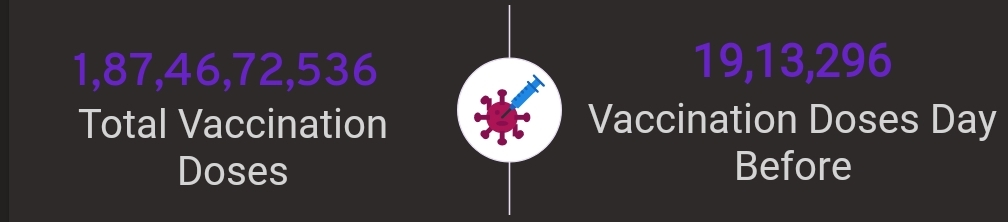
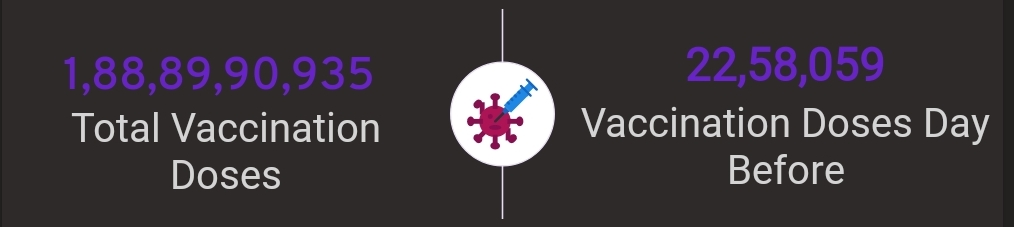
changes 11

diff --git a/index.html b/index.html
@@ -159,13 +159,13 @@
                     data-tooltip="April 27, Wednesday">
                     <h6>27<br>WE</h6>
                   </a></li>
-                <li class="tab"><a href="#ith" class="active black white-text tooltipped" data-position="bottom"
+                <li class="tab"><a href="#ith" class="black white-text tooltipped" data-position="bottom"
                     data-tooltip="April 28, Thursday">
                     <h6>28<br>TH</h6>
                   </a></li>
-                <li class="tab"><a href="#ifr" class="black white-text tooltipped" data-position="bottom"
-                    data-tooltip="April 22, Friday">
-                    <h6>22<br>FR</h6>
+                <li class="tab"><a href="#ifr" class="active black white-text tooltipped" data-position="bottom"
+                    data-tooltip="April 29, Friday">
+                    <h6>29<br>FR</h6>
                   </a></li>
                 <li class="tab"><a href="#isa" class="black white-text tooltipped" data-position="bottom"
                     data-tooltip="April 23, Saturday">
@@ -270,49 +270,49 @@
               <img src="images/ISUii.png" alt="VacDB7" class="responsive-img materialboxed">
             </div>
           </div>
-          <h6>Below Data as on April 29, 18:45 IST</h6>
+          <h6>Below Data as on April 30, 14:55 IST</h6>
           <div class="row">
             <div class="col s12 m6 l4">
               <div class="card-panel grey darken-4 white-text">
                 <h5><b>Vaccine Doses availability</b></h5>
-                <p>As on April 29, Source: PIB India</p>
+                <p>As on April 30, Source: PIB India</p>
                 <b>Supplied</b>: 193.28 Crores <br>
-                <b>Balance</b>: 19.58 Crores
+                <b>Balance</b>: 19.43 Crores
               </div>
             </div>
             <div class="col s12 m6 l4">
               <div class="card-panel grey darken-4 white-text">
                 <h5><b>Vaccine Doses administered</b></h5>
-                <b>Dose 1</b>: 100.29 Crores <br>
-                <b>Dose 2</b>: 85.81 Crores <br>
-                <b>Prec. Dose</b>: 2.66 Crores <br>
-                <b>Total</b>: 188.77 Crores
+                <b>Dose 1</b>: 100.33 Crores <br>
+                <b>Dose 2</b>: 85.94 Crores <br>
+                <b>Prec. Dose</b>: 2.68 Crores <br>
+                <b>Total</b>: 188.96 Crores
               </div>
             </div>
             <div class="col s12 m6 l4">
               <div class="card-panel grey darken-4 white-text">
                 <h5><b>Registered for Vaccine</b></h5>
-                <b>Age 12 to 14</b>: 2.93 Crores <br>
-                <b>Age 15 to 17</b>: 5.93 Crores <br>
+                <b>Age 12 to 14</b>: 2.96 Crores <br>
+                <b>Age 15 to 17</b>: 5.94 Crores <br>
                 <b>Age 18 to 44</b>: 63.02 Crores <br>
-                <b>Age 45+</b>: 36.56 Crores <br>
-                <b>Total</b>: 108.46 Crores
+                <b>Age 45+</b>: 36.57 Crores <br>
+                <b>Total</b>: 108.51 Crores
               </div>
             </div>
             <div class="col s12 m6 l4">
               <div class="card-panel grey darken-4 white-text">
                 <h5><b>Vaccination by Gender</b></h5>
-                <b>Male</b>: 94.68 Crores <br>
-                <b>Female</b>: 90.96 Crores <br>
-                <b>Others</b>: 4.47 Lakhs
+                <b>Male</b>: 94.76 Crores <br>
+                <b>Female</b>: 91.04 Crores <br>
+                <b>Others</b>: 4.48 Lakhs
               </div>
             </div>
             <div class="col s12 m6 l4">
               <div class="card-panel grey darken-4 white-text">
                 <h5><b>Vaccination by Vaccine Name</b></h5>
-                <b>CoviShield</b>: 153.13 Crores <br>
-                <b>Covaxin</b>: 31.57 Crores <br>
-                <b>Corbevax</b>: 3.51 Crores <br>
+                <b>CoviShield</b>: 153.21 Crores <br>
+                <b>Covaxin</b>: 31.60 Crores <br>
+                <b>Corbevax</b>: 3.60 Crores <br>
                 <b>Sputnik V</b>: 12.23 Lakhs <br>
                 <b>Novavax</b>: -
                 <b>Zycov-D</b>: -
@@ -321,11 +321,11 @@
             <div class="col s12 m6 l4">
               <div class="card-panel grey darken-4 white-text">
                 <h5><b>Vaccination by Age</b></h5>
-                <b>Age 12 to 14</b>: 3.51 Crores <br>
-                <b>Age 15 to 17</b>: 10.06 Crores <br>
-                <b>Age 18 to 44</b>: 107.97 Crores <br>
-                <b>Age 45 to 60</b>: 40.66 Crores <br>
-                <b>Age 60+</b>: 26.06 Crores
+                <b>Age 12 to 14</b>: 3.60 Crores <br>
+                <b>Age 15 to 17</b>: 10.08 Crores <br>
+                <b>Age 18 to 44</b>: 108.02 Crores <br>
+                <b>Age 45 to 60</b>: 40.68 Crores <br>
+                <b>Age 60+</b>: 26.07 Crores
               </div>
             </div>
           </div>
@@ -346,13 +346,13 @@
                     data-tooltip="April 27, Wednesday">
                     <h6>27<br>WE</h6>
                   </a></li>
-                <li class="tab"><a href="#sth" class="active black white-text tooltipped" data-position="bottom"
+                <li class="tab"><a href="#sth" class="black white-text tooltipped" data-position="bottom"
                     data-tooltip="April 28, Thursday">
                     <h6>28<br>TH</h6>
                   </a></li>
-                <li class="tab"><a href="#sfr" class="black white-text tooltipped" data-position="bottom"
-                    data-tooltip="April 22, Friday">
-                    <h6>22<br>FR</h6>
+                <li class="tab"><a href="#sfr" class="active black white-text tooltipped" data-position="bottom"
+                    data-tooltip="April 29, Friday">
+                    <h6>29<br>FR</h6>
                   </a></li>
                 <li class="tab"><a href="#ssa" class="black white-text tooltipped" data-position="bottom"
                     data-tooltip="April 23, Saturday">
@@ -865,7 +865,7 @@
         <div class="col s12" id="mum">
           <a href="thavac.html" target="_blank" class="oui-button blue darken-1 white-text">VACCINE SLOT
             TRACKERS</a>
-          <h6 class="white-text">As on April 28</h6>
+          <h6 class="white-text">As on April 29</h6>
           <div class="row">
             <div class="col s12 m6 l3">
               <div class="card-panel grey darken-4 white-text">
@@ -890,7 +890,7 @@
                         <b>Active:</b> 587 <br>
                         <b>Recovered:</b> 10,38,657 <br>
                         <b>Deceased:</b> 19,562 <br>
-                        <b>Vaccinated:</b>2,08,66,369 <br>
+                        <b>Vaccinated:</b>2,08,77,758 <br>
                         <b>Tested:</b> 1,68,85,446
                       </td>
                     </tr>
@@ -905,7 +905,7 @@
                   <caption>Week Trend of New Cases (<i class="fas fa-arrow-circle-up"></i>)</caption>
                   <tbody>
                     <tr>
-                      <td>Apr 29 <br><i class="fas fa-arrow-circle-up"></i><br>_</td>
+                      <td>Apr 29 <br><i class="fas fa-arrow-circle-up"></i><br>11</td>
                       <td>Apr 28 <br><i class="fas fa-arrow-circle-up"></i><br>21</td>
                       <td>Apr 27 <br><i class="fas fa-arrow-circle-up"></i><br>15</td>
                       <td>Apr 26 <br><i class="fas fa-arrow-circle-up"></i><br>11</td>
@@ -917,11 +917,11 @@
                     </tr>
                     <tr>
                       <td colspan="4">
-                        <b>Total:</b> 7,66,926 <br>
-                        <b>Active:</b> 83 <br>
-                        <b>Recovered:</b> 7,54,928 <br>
+                        <b>Total:</b> 7,66,937 <br>
+                        <b>Active:</b> 92 <br>
+                        <b>Recovered:</b> 7,54,930 <br>
                         <b>Deceased:</b> 11,915 <br>
-                        <b>Vaccinated:</b> 1,33,96,471 <br>
+                        <b>Vaccinated:</b> 1,34,05,149 <br>
                         <b>Tested:</b> -
                       </td>
                     </tr>
@@ -936,7 +936,7 @@
                   <caption>Week Trend of New Cases (<i class="fas fa-arrow-circle-up"></i>)</caption>
                   <tbody>
                     <tr>
-                      <td>Apr 29 <br><i class="fas fa-arrow-circle-up"></i><br>_</td>
+                      <td>Apr 29 <br><i class="fas fa-arrow-circle-up"></i><br>0</td>
                       <td>Apr 28 <br><i class="fas fa-arrow-circle-up"></i><br>0</td>
                       <td>Apr 27 <br><i class="fas fa-arrow-circle-up"></i><br>2</td>
                       <td>Apr 26 <br><i class="fas fa-arrow-circle-up"></i><br>0</td>
@@ -949,10 +949,10 @@
                     <tr>
                       <td colspan="4">
                         <b>Total:</b> 1,63,612 <br>
-                        <b>Active:</b> 4 <br>
-                        <b>Recovered:</b> 1,60,201 <br>
+                        <b>Active:</b> 3 <br>
+                        <b>Recovered:</b> 1,60,202 <br>
                         <b>Deceased:</b> 3,407 <br>
-                        <b>Vaccinated:</b> 46,90,338 <br>
+                        <b>Vaccinated:</b> 46,93,486 <br>
                         <b>Tested:</b> 14,30,049+
                       </td>
                     </tr>
@@ -967,7 +967,7 @@
                   <caption>Week Trend of New Cases (<i class="fas fa-arrow-circle-up"></i>)</caption>
                   <tbody>
                     <tr>
-                      <td>Apr 29 <br><i class="fas fa-arrow-circle-up"></i><br>_</td>
+                      <td>Apr 29 <br><i class="fas fa-arrow-circle-up"></i><br>0</td>
                       <td>Apr 28 <br><i class="fas fa-arrow-circle-up"></i><br>6</td>
                       <td>Apr 27 <br><i class="fas fa-arrow-circle-up"></i><br>5</td>
                       <td>Apr 26 <br><i class="fas fa-arrow-circle-up"></i><br>2</td>
@@ -980,10 +980,10 @@
                     <tr>
                       <td colspan="4">
                         <b>Total:</b> 2,44,357 <br>
-                        <b>Active:</b> 16 <br>
-                        <b>Recovered:</b> 2,39,396 <br>
+                        <b>Active:</b> 15 <br>
+                        <b>Recovered:</b> 2,39,397 <br>
                         <b>Deceased:</b> 4,945 <br>
-                        <b>Vaccinated:</b> 44,61,048 <br>
+                        <b>Vaccinated:</b> 44,64,433 <br>
                         <b>Tested:</b> 25,03,598
                       </td>
                     </tr>
@@ -993,13 +993,13 @@
             </div>
           </div>
           <blockquote style="font-size: x-large; border-left-color: #1e88e5;">Mumbai Dashboard</blockquote>
-          <h6>Source: Official MCGM Website<br>As on April 28 (April 27)</h6>
+          <h6>Source: Official MCGM Website<br>As on April 29 (April 28)</h6>
           <div class="row">
             <div class="col s12 m12 l6">
-              <img src="images/M28.png" alt="Mum" width="100%" class="responsive-img materialboxed">
+              <img src="images/M29.png" alt="Mum" width="100%" class="responsive-img materialboxed">
             </div>
             <div class="col s12 m12 l6">
-              <img src="images/M27.png" alt="Mum" width="100%" class="responsive-img materialboxed">
+              <img src="images/M28.png" alt="Mum" width="100%" class="responsive-img materialboxed">
             </div>
           </div>
           <blockquote style="font-size: x-large; border-left-color: #1e88e5;">Palghar Dashboard</blockquote>
